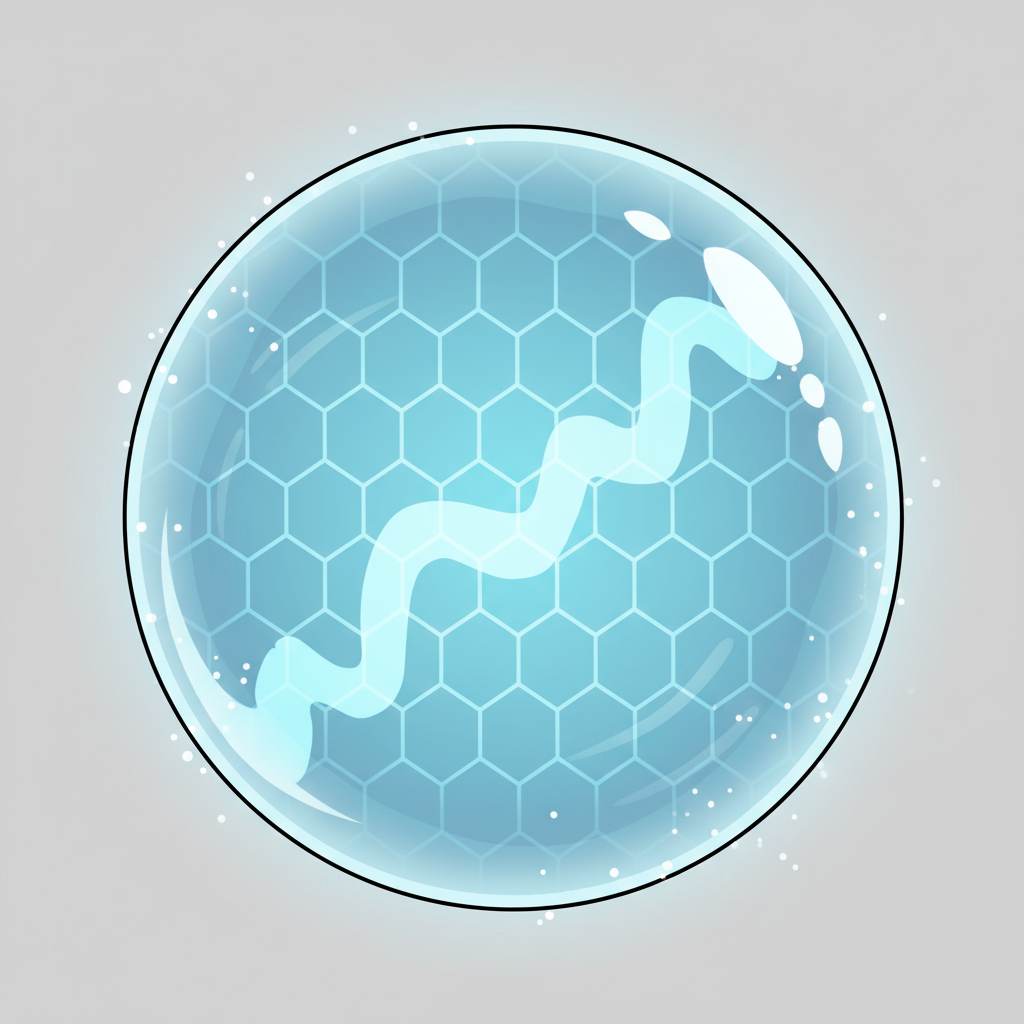
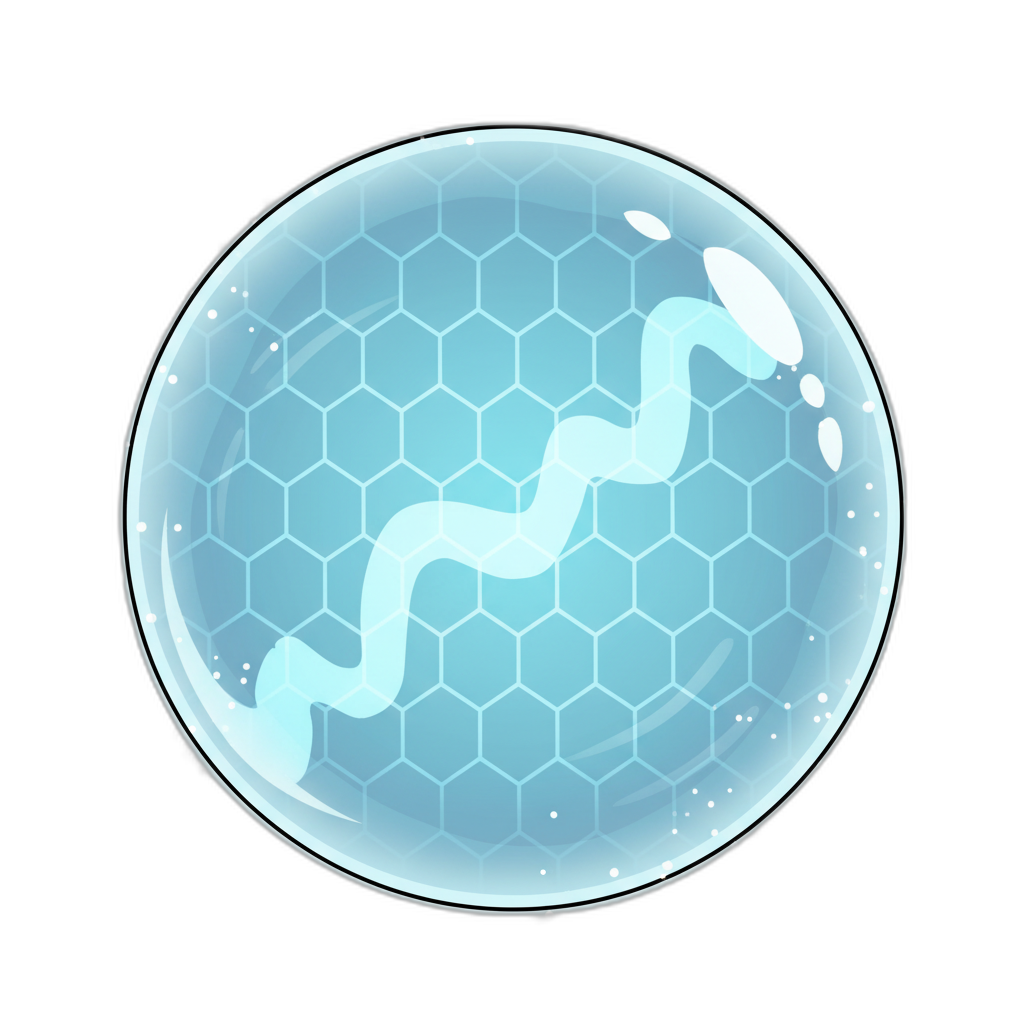
feat: 優化遊戲素材與物理參數
- 所有素材圖片去背處理（透明背景）
- 貓狗角色放大 20%（120 → 144）
- 飛行物速度下降 30%（MAX_POWER: 45 → 31.5, POWER_MULTIPLIER: 0.25 → 0.175）

diff --git a/main.js b/main.js
@@ -36,8 +36,8 @@ const CONFIG = {
 
     // 物理參數
     GRAVITY: 0.4,              // 重力加速度（降低讓拋物線更遠）
-    MAX_POWER: 45,             // 最大發射力道（大幅提升）
-    POWER_MULTIPLIER: 0.25,    // 拖拽距離轉力道係數（提升拖拽靈敏度）
+    MAX_POWER: 31.5,           // 最大發射力道（降低30%）
+    POWER_MULTIPLIER: 0.175,   // 拖拽距離轉力道係數（降低30%）
 
     // 傷害計算
     BASE_DAMAGE: 15,           // 基礎傷害
@@ -61,7 +61,7 @@ const CONFIG = {
 
     // 動畫
     PROJECTILE_SIZE: 40,       // 投擲物大小
-    CHARACTER_SIZE: 120,       // 角色大小
+    CHARACTER_SIZE: 144,       // 角色大小（放大20%）
     TRAJECTORY_DOTS: 25        // 軌跡預測點數（增加以顯示更長軌跡）
 };
 
